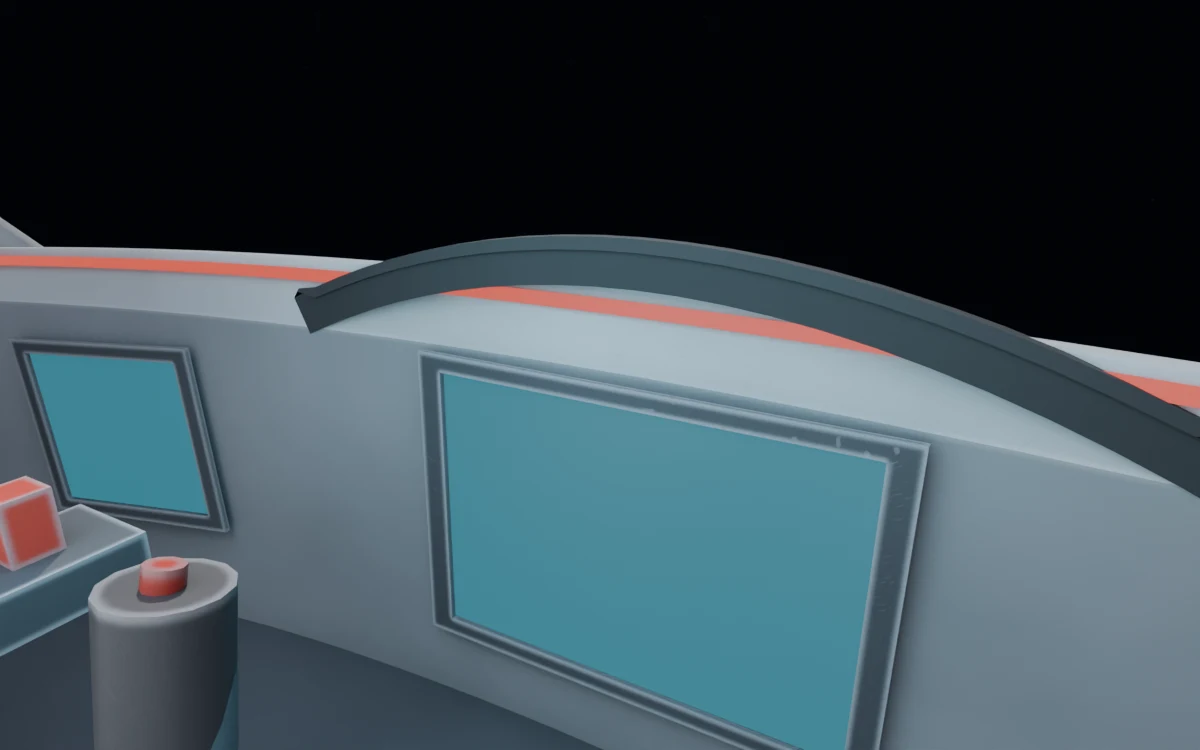
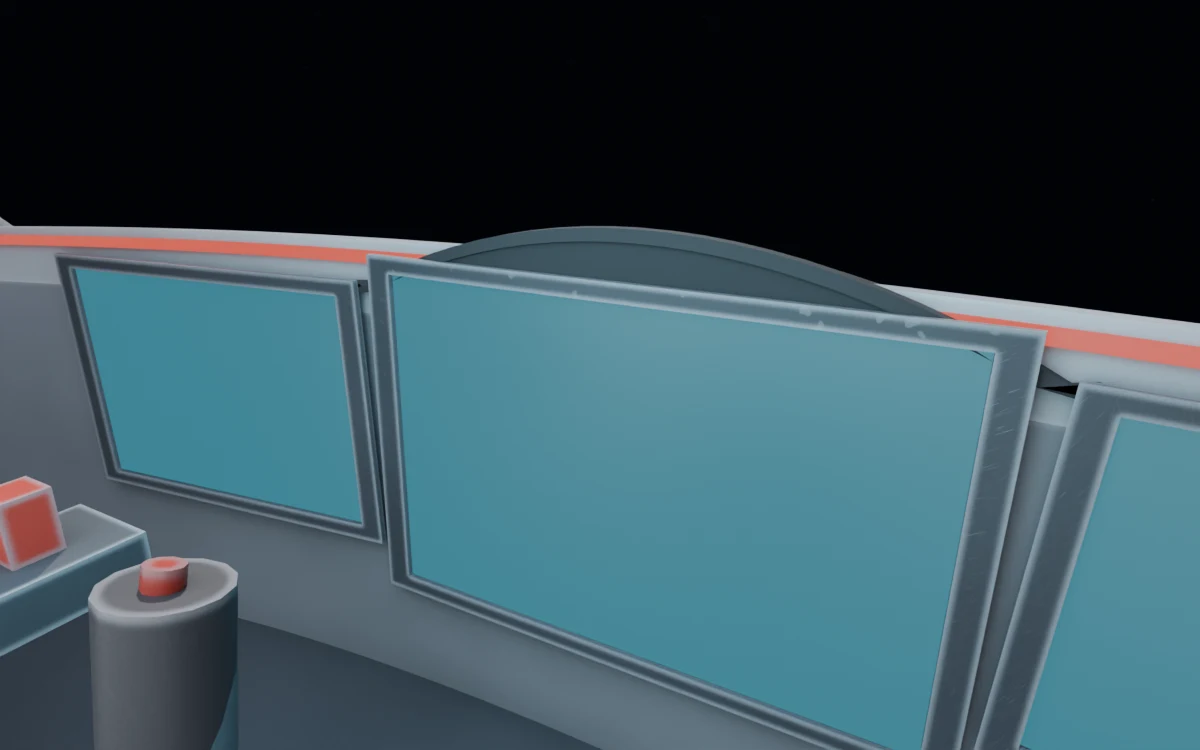
Şahin kokpiti PREVIEW r008: kullanıcı geri bildirimiyle ekranlar yaklaştırıldı, büyütüldü, yükseltildi; konsol üst kenarı ve göz kalkanı tarif parametresi oldu
Claude-Session: https://claude.ai/code/session_01YNY6pHhgyKSWR2LEhZ1L9E

diff --git a/tools/asset_factory/docs/sahin_preview.html b/tools/asset_factory/docs/sahin_preview.html
@@ -50,21 +50,24 @@ tr:last-child td { border-bottom: 0 } td.num { text-align: right; white-space: n
 <main>
 <div class="eyebrow">Asset Factory · Şahin · Kapı 1 görsel onay</div>
 <h1>Şahin Kokpit PREVIEW</h1>
-<p class="lede">Konsept A "Damla Fanus" blokajı (revizyon r007). Kaba kütleler, Blender pilot kamerası, hızlı render. UV, doku, bake ve GLB yok; bunlar PRODUCTION'da ve bu sayfadaki onaya bağlı.</p>
+<p class="lede">Konsept A "Damla Fanus" blokajı (revizyon r008: ekranlar senin geri bildirimine göre yaklaştırıldı, büyütüldü ve yükseltildi). Kaba kütleler, Blender pilot kamerası, hızlı render. UV, doku, bake ve GLB yok; bunlar PRODUCTION'da ve bu sayfadaki onaya bağlı.</p>
 
 <div class="kpis">
   <div class="kpi"><b>0,0 px</b><span>kamera sözleşmesi hatası</span></div>
   <div class="kpi"><b>3 × 5/5</b><span>ekranlar gözden görünür</span></div>
-  <div class="kpi"><b>54,8 %</b><span>cam oranı (şema 57,6 · Kaşif 50,7)</span></div>
-  <div class="kpi"><b>0,8 %</b><span>HUD bölgesi engeli (Kaşif 9,3)</span></div>
+  <div class="kpi"><b>53,9 %</b><span>cam oranı (şema 57,6 · Kaşif 50,7)</span></div>
+  <div class="kpi"><b>1,2 %</b><span>HUD bölgesi engeli (Kaşif 9,3)</span></div>
   <div class="kpi"><b>4 902</b><span>blokaj üçgeni</span></div>
 </div>
+
+<h2>r008: ekran düzeni değişikliği</h2>
+<figure><img src="img/once_sonra_r007_r008.webp" alt="r007 ve r008 pilot görüşü karşılaştırması"><figcaption>Üstte r007, altta r008. Ekranlar arası boşluk 214 → 34 px. RADAR 220×150 → 280×180 px, yan ekranlar ~160×110 → ~235×150 px. Ekran merkezleri yaklaşık 30–55 px yukarıda. Konsol üst kenarı ve göz kalkanı da birlikte yükseldi.</figcaption></figure>
 
 <h2>Konsept ⟷ blokaj, aynı pilot çerçevesi</h2>
 <div class="pair">
   <div class="lbl">Onaylanan konsept A (şema)</div>
   <figure><img src="img/konsept_a.webp" alt="Konsept A şeması, pilot görüşü"></figure>
-  <div class="lbl">PREVIEW r007: Blender, pilot kamerası (FOV 74°, göz orijinde)</div>
+  <div class="lbl">PREVIEW r008: Blender, pilot kamerası (FOV 74°, göz orijinde)</div>
   <figure><img src="img/01_pilot.webp" alt="Şahin kokpit blokajı, pilot görüşü"><figcaption>Ekranlardaki camgöbeği düz renk yer tutucudur; oyunda canlı Sistem, Radar ve Gövde ekranları bağlanır. Arka plan karanlık uzay; oyunda gökyüzü, istasyon ve HUD bu camın ardında görünür.</figcaption></figure>
 </div>
 <p>Blokaj şemadan türetildi: şemadaki her piksel noktası oyunun kamera sözleşmesiyle 3B'ye taşındı. Ekran köşeleri şemadaki piksellere birebir düşüyor. Ön kemer geriye yatık kuruldu (tepe önde, ayaklar pilotun yanında); böylece şemadaki gibi uçları görüş alanının dışında kalıyor. Kemerin kenar yüksekliği şemaya sayısal olarak uyduruldu: v = 104,6 px, şemada ≈ 105.</p>
@@ -83,10 +86,10 @@ tr:last-child td { border-bottom: 0 } td.num { text-align: right; white-space: n
 <tr><th>Test</th><th>Sonuç</th><th>Ölçüt</th><th></th></tr>
 <tr><td>Kamera sözleşmesi (4 nokta, Blender izdüşümü)</td><td class="num">0,0 px</td><td>Kaşif ile aynı pilot kamerası</td><td><span class="pill p-ok">geçti</span></td></tr>
 <tr><td><code>SCR_SYS</code> · <code>SCR_RADAR</code> · <code>SCR_HULL</code> görünürlüğü (merkez + 4 köşe ışını)</td><td class="num">5/5 · 5/5 · 5/5</td><td>göz → ekran önünde engel yok</td><td><span class="pill p-ok">geçti</span></td></tr>
-<tr><td>Ekran köşeleri (px)</td><td>SYS (320,506)…(336,624) · RADAR (690,452)…(690,602) · HULL (1124,484)…(1112,594)</td><td>şemadaki konumlar</td><td><span class="pill p-ok">birebir</span></td></tr>
+<tr><td>Ekran köşeleri (px)</td><td>SYS (390,432)…(400,582) · RADAR (660,404)…(660,584) · HULL (980,420)…(974,560)</td><td>r008 tarifindeki konumlar</td><td><span class="pill p-ok">birebir</span></td></tr>
 <tr><td>Ekran UV düzeni</td><td>TL (0,1) · TR (1,1) · BR (1,0) · BL (0,0)</td><td>Kaşif ekran sözleşmesi</td><td><span class="pill p-ok">geçti</span></td></tr>
-<tr><td>Cam oranı</td><td class="num">54,8 %</td><td>şema 57,6 % · Kaşif 50,7 %</td><td><span class="pill p-ok">uyumlu</span></td></tr>
-<tr><td>Orta (HUD) bölge engeli</td><td class="num">0,8 %</td><td>şema 0 % · Kaşif 9,3 %</td><td><span class="pill p-ok">uyumlu</span></td></tr>
+<tr><td>Cam oranı</td><td class="num">53,9 %</td><td>şema 57,6 % · Kaşif 50,7 %</td><td><span class="pill p-ok">uyumlu</span></td></tr>
+<tr><td>Orta (HUD) bölge engeli</td><td class="num">1,2 %</td><td>şema 0 % · Kaşif 9,3 %</td><td><span class="pill p-ok">uyumlu</span></td></tr>
 <tr><td>Blokaj üçgeni</td><td class="num">4 902</td><td>PRODUCTION bütçesi ≤ 60 000</td><td><span class="pill p-ok">bilgi</span></td></tr>
 <tr><td>Süre (PREVIEW, hızlı mod)</td><td class="num">~4 dk</td><td>6 render + ölçümler</td><td><span class="pill p-ok">bilgi</span></td></tr>
 </table></div>
@@ -101,6 +104,7 @@ tr:last-child td { border-bottom: 0 } td.num { text-align: right; white-space: n
 <tr><td>r003</td><td>Yan ekranların alt köşelerini konsol alt yüzü örtüyordu</td><td>Ekranlar konsol yüzeyini her noktada 12 mm önden izliyor</td></tr>
 <tr><td>r004</td><td>Görsel: kemer görüşün ortasına iniyordu, eşikler büyük ve açık renkteydi</td><td>Geriye yatık kemer (şemaya sayısal uyum), eğimli koyu yan eşik</td></tr>
 <tr><td>r005–r007</td><td>Ray borularında burulma; konsol alt yüzü fazla koyu; koltuk kamerası ve baş desteği</td><td>Paralel taşımalı boru kesiti, orta gri malzeme, yeni kamera ve konum</td></tr>
+<tr><td>r008</td><td>Senin geri bildirimin: ekranlar birbirinden uzak, küçük ve aşağıda</td><td>Ekranlar tek küme hâline getirildi (boşluk 34 px), büyütüldü, yükseltildi; konsol üst kenarı ve göz kalkanı birlikte ayarlandı. Değerler artık tarifte</td></tr>
 </table></div>
 
 <h2>Blokajda bilinçli olarak eksik olanlar (PRODUCTION'da yapılacak)</h2>
@@ -109,6 +113,7 @@ tr:last-child td { border-bottom: 0 } td.num { text-align: right; white-space: n
   <li><b>Konsol ayrıntısı:</b> yan konsollarda anahtar sıraları, panel derzleri, perçinler, havalandırma, kablo kanalları. Kaşif'in ayrıntı yoğunluğu hedefleniyor, ama tasarım Şahin'e özgü.</li>
   <li><b>Kanopi arkası:</b> omurganın arka ucu ve arka kemer dıştan görünüşte açık. Pilot görüşünü etkilemiyor.</li>
   <li><b>Gaz kolu:</b> konumu şemadaki gibi, ama göze yakın olduğu için iri görünüyor; PRODUCTION'da biçimi inceltilecek.</li>
+  <li><b>Uçuş kolu:</b> r008'de topuzu RADAR çerçevesinin alt kenarına biraz biniyor; PRODUCTION'da kol birkaç santim alçaltılacak.</li>
   <li><b>Malzeme:</b> yalnızca kütüphane malzemeleri. Aşınma, kir, boya kenar aşınması ve kırmızı şerit emisyon ayarı PRODUCTION'da.</li>
   <li><b>Teknik kurallar</b> (Kaşif analizinden): tek gövde malzemesi ve tek doku seti, ≤ 6 draw call, GPU ≤ 40 MB, emisyon ≤ 1, WebP, tek yüz.</li>
 </ul>

diff --git a/tools/asset_factory/families/cockpit/build.py b/tools/asset_factory/families/cockpit/build.py
@@ -79,12 +79,15 @@ def build(spec, mats):
         return ob
 
     # ---- konsol "küvet": şemadaki üst kenar eğrisi (0,520)–(250,436)–Q(800,396)–(1350,436)–(1600,520)
+    ct = A['console_top']      # konsol üst kenarı (px): omuz, orta çukur, kenar
+
     def vtop(u):
-        if u < 250:
-            return 436 + (250 - u) / 250 * 84
-        if u > 1350:
-            return 436 + (u - 1350) / 250 * 84
-        return 436 - 40 * (1 - ((u - 800) / 550) ** 2)
+        su, sv = ct['shoulder_u'], ct['shoulder']
+        if u < su:
+            return sv + (su - u) / su * (ct['edge'] - sv)
+        if u > W - su:
+            return sv + (u - (W - su)) / su * (ct['edge'] - sv)
+        return sv - (sv - ct['center']) * (1 - ((u - 800) / (800 - su)) ** 2)
 
     def dep(u):
         return max(0.36, A['console_depth'] - A['console_wrap'] * ((u - 800) / 800) ** 2)
@@ -104,13 +107,14 @@ def build(spec, mats):
     add('console_fascia', grid([mid, bot]), 'sahin_mid', eye=True, solid=0.02)
     deck = [p + Vector((0, A['deck_depth'], -A['deck_drop'])) for p in top]      # üst yüzey ileriye doğru alçalır: gözden ufka yükselmez (HUD bölgesi açık)
     add('console_deck', grid([deck, top]), 'sahin_paint', eye=True, solid=0.015)
-    U2 = lin(262, 1338, 33)
+    U2 = lin(ct['shoulder_u'] + 12, W - ct['shoulder_u'] - 12, 33)
     add('console_stripe', grid([[P(u, vtop(u) + 6, dep(u) - 0.006) for u in U2], [P(u, vtop(u) + 13, dep(u) - 0.006) for u in U2]]), 'emit_red', role='emit_live', eye=True)
 
     # ---- göz kalkanı (anti-glare): üst eğri 436→376→436, alt kenar 452→398→452
-    UG = lin(560, 1040, 25)
-    gt = [P(u, 436 - 60 * (1 - ((u - 800) / 240) ** 2), A['glare_depth']) for u in UG]
-    gb = [P(u, max(452 - 54 * (1 - ((u - 800) / 222) ** 2), 398), A['glare_depth']) for u in UG]
+    gl = A['glare']      # göz kalkanı (px): yarı genişlik, üst ve alt eğri (orta, uç)
+    UG = lin(800 - gl['half'], 800 + gl['half'], 25)
+    gt = [P(u, gl['top_c'] + (gl['top_e'] - gl['top_c']) * ((u - 800) / gl['half']) ** 2, A['glare_depth']) for u in UG]
+    gb = [P(u, gl['bot_c'] + (gl['bot_e'] - gl['bot_c']) * ((u - 800) / gl['half']) ** 2, A['glare_depth']) for u in UG]
     add('glare_front', grid([gt, gb]), 'antiglare', eye=True, solid=0.012)
     add('glare_top', grid([[p + Vector((0, 0.16, -0.035)) for p in gt], gt]), 'antiglare', eye=True, solid=0.012)
 
